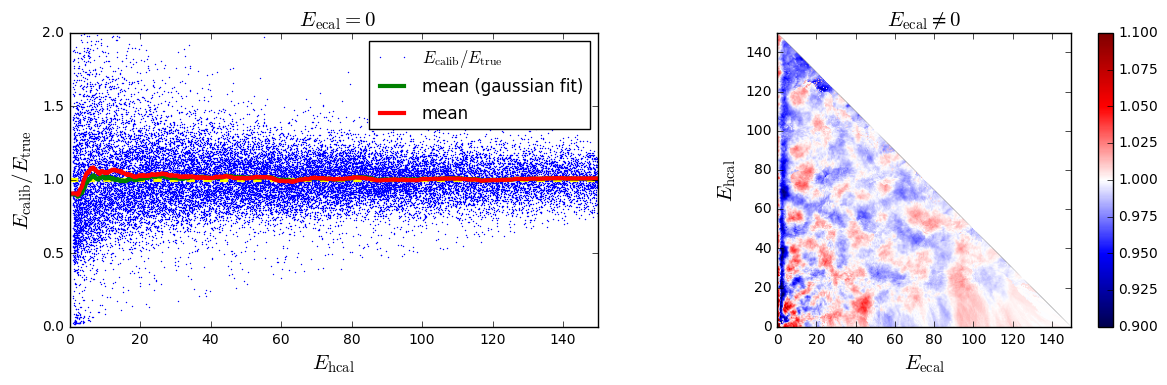
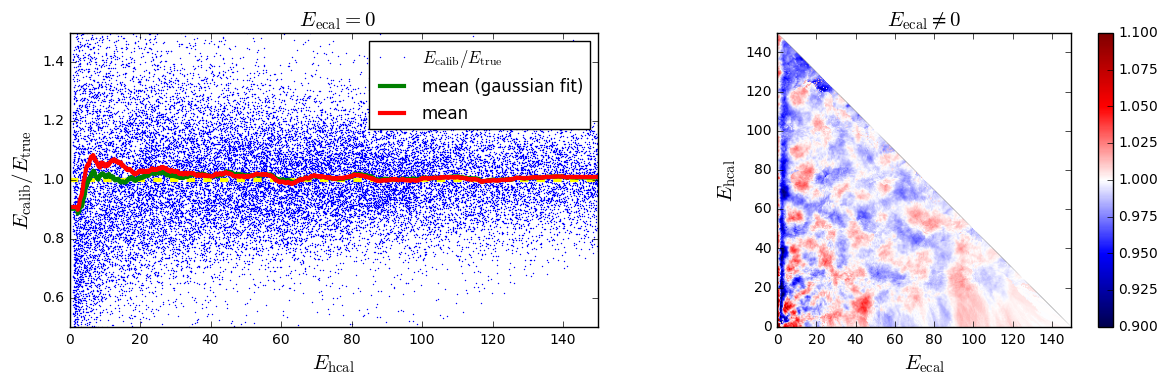
modification des plots

Changed region(s): [[0.0308, 0.0935, 0.5244, 0.8727], [0.0308, 0.0623, 0.0617, 0.0935]]

diff --git a/test_LR.py b/test_LR.py
@@ -49,14 +49,14 @@ except FileNotFoundError:
 
 classname = LinearRegression.classname
 #plot 3D Training points
-fig = plt.figure(1,figsize=(4, 4))
+fig = plt.figure(1,figsize=(7, 7))
 usplt.plot3D_training(data1)
 plt.show()
 savefig(fig,directory,classname+"_plot3D_training.png")
 plt.close()
 
 #plot 3D surface calibration
-fig = plt.figure(1,figsize=(4, 4))
+fig = plt.figure(1,figsize=(7, 7))
 usplt.plot3D_surf(LinearRegression)
 plt.show()
 savefig(fig,directory,classname+"_plot3D_surf.png")
@@ -116,6 +116,7 @@ plt.plot(hcal,true,'.',markersize=1,color = 'red')
 hcal = LinearRegression.hcal_train[ind]
 true = LinearRegression.true_train[ind]
 plt.plot(hcal,true,'.',markersize=1)
+plt.tight_layout()
 plt.show()
 savefig(fig,directory,classname+"_selectedpoints.png")
 plt.close()

diff --git a/pfcalibration/usualplots.py b/pfcalibration/usualplots.py
@@ -162,7 +162,7 @@ def plot_ecalib_over_etrue_functionof_ecal_hcal(calib,dataToPredict):
     plt.plot([0,200],[1,1],'--',lw = 3, color = "yellow")
     plt.ylabel(r"$E_{\rm calib}/E_{\rm true}$",fontsize = 15)
     plt.xlabel(r"$E_{\rm hcal}$",fontsize = 15)
-    plt.axis([0,calib.lim,0,2])
+    plt.axis([0,calib.lim,0.5,1.5])
     energy_ecal_eq_0, means_ecal_eq_0, mean_gaussianfit_ecal_eq_0, sigma_gaussianfit_ecal_eq_0, reducedChi2_ecal_eq_0 = getMeans(h,r)
     plt.plot(energy_ecal_eq_0,mean_gaussianfit_ecal_eq_0,lw=3,label="mean (gaussian fit)")
     plt.plot(energy_ecal_eq_0,means_ecal_eq_0,lw=3,label="mean")

diff --git a/test_KNNGF.py b/test_KNNGF.py
@@ -54,14 +54,14 @@ except FileNotFoundError:
     
 classname = KNNGF.classname
 #plot 3D Training points
-fig = plt.figure(1,figsize=(6, 4))
+fig = plt.figure(1,figsize=(7, 7))
 usplt.plot3D_training(data1)
 plt.show()
 savefig(fig,directory,classname+"_plot3D_training.png")
 savefig(fig,'img_index/',classname+"_plot3D_training.png")
 
 #plot 3D surface calibration
-fig = plt.figure(1,figsize=(6, 4))
+fig = plt.figure(1,figsize=(7, 7))
 usplt.plot3D_surf(KNNGF)
 plt.show()
 savefig(fig,directory,classname+"_plot3D_surf.png")

diff --git a/test_Lego.py b/test_Lego.py
@@ -42,14 +42,14 @@ except FileNotFoundError:
     
 classname = CalibrationLego.classname
 #plot 3D Training points
-fig = plt.figure(1,figsize=(6, 4))
+fig = plt.figure(1,figsize=(7, 7))
 usplt.plot3D_training(data1)
 plt.show()
 savefig(fig,directory,classname+"_plot3D_training.png")
 plt.close()
 
 #plot 3D surface calibration
-fig = plt.figure(1,figsize=(6, 4))
+fig = plt.figure(1,figsize=(7, 7))
 usplt.plot3D_surf(CalibrationLego)
 plt.show()
 savefig(fig,directory,classname+"_plot3D_surf.png")

diff --git a/test_KNN.py b/test_KNN.py
@@ -52,14 +52,14 @@ except FileNotFoundError:
 
 classname = KNN.classname
 #plot 3D Training points
-fig = plt.figure(1,figsize=(6, 4))
+fig = plt.figure(1,figsize=(7, 7))
 usplt.plot3D_training(data1)
 plt.show()
 savefig(fig,directory,classname+"_plot3D_training.png")
 plt.close()
 
 #plot 3D surface calibration
-fig = plt.figure(1,figsize=(6, 4))
+fig = plt.figure(1,figsize=(7, 7))
 usplt.plot3D_surf(KNN)
 plt.show()
 savefig(fig,directory,classname+"_plot3D_surf.png")

diff --git a/test_KNNGC.py b/test_KNNGC.py
@@ -53,13 +53,13 @@ except FileNotFoundError:
     
 classname = KNNGC.classname
 #plot 3D Training points
-fig = plt.figure(1,figsize=(6, 4))
+fig = plt.figure(1,figsize=(7, 7))
 usplt.plot3D_training(data1)
 plt.show()
 savefig(fig,directory,classname+"_plot3D_training.png")
 
 #plot 3D surface calibration
-fig = plt.figure(1,figsize=(6, 4))
+fig = plt.figure(1,figsize=(7, 7))
 usplt.plot3D_surf(KNNGC)
 plt.show()
 savefig(fig,directory,classname+"_plot3D_surf.png")
